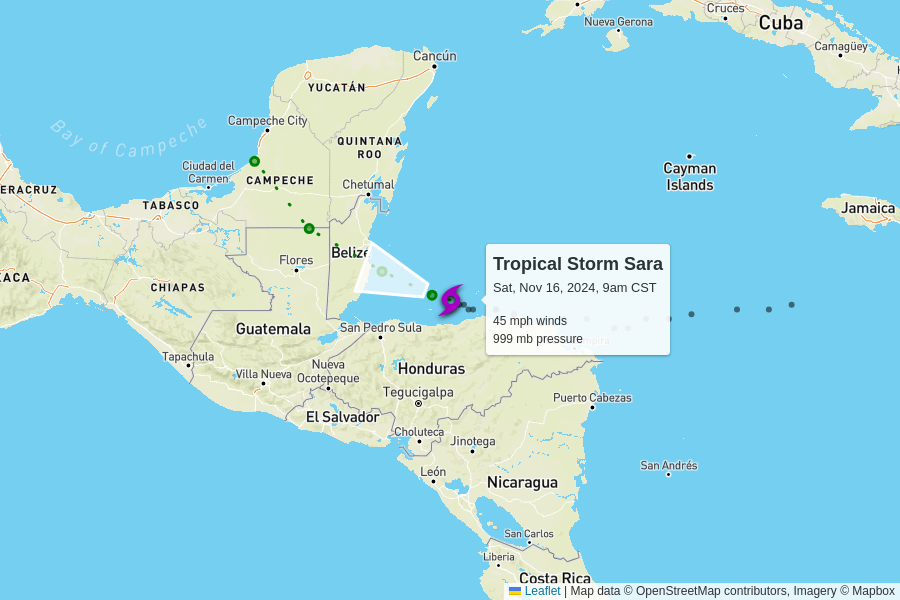
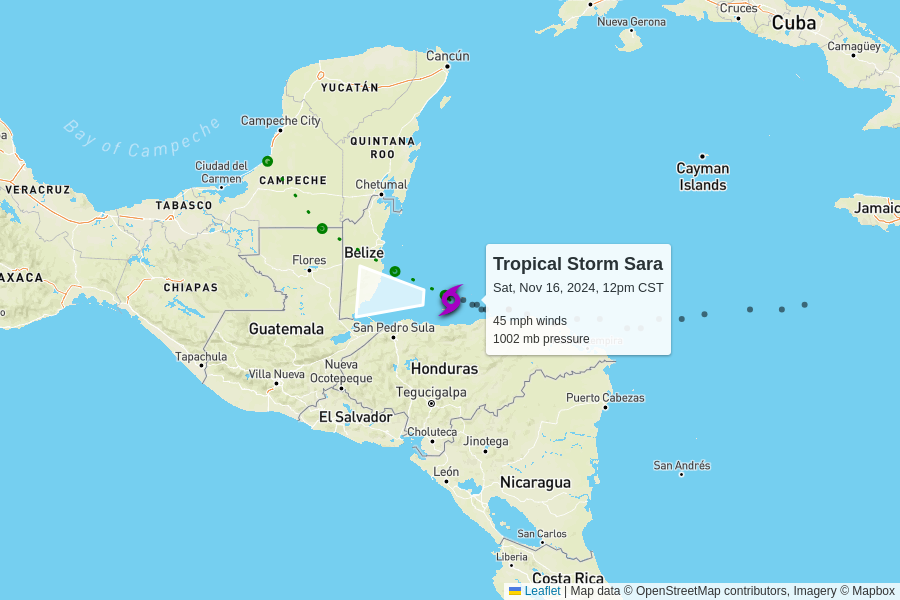
automatic update

diff --git a/docs/index.html b/docs/index.html
@@ -102,7 +102,7 @@
         <td colspan="6" class="storm category-0" >
           <h2>
             Tropical Storm Sara
-            <p class="updated">last updated <span data-time>2024-11-16T15:00:00.000Z</span></p>
+            <p class="updated">last updated <span data-time>2024-11-16T18:00:00.000Z</span></p>
           </h2>
         </td>
       </tr>
@@ -117,12 +117,12 @@
       </tr>
       <tr>
         <td class="spacer"></td>
-        <td>45 mph<br>-5 mph since last update</td>
-        <td>999 mb<br>+2 mb since last update</td>
+        <td>45 mph<br>0 mph since last update</td>
+        <td>1002 mb<br>+3 mb since last update</td>
         <td>
-          2 mph to the west-northwest
+          4 mph to the west
           <br/>
-          <span style="display: inline-block; font-size: 1.5em; transform: rotate(290deg);">↑</span>
+          <span style="display: inline-block; font-size: 1.5em; transform: rotate(275deg);">↑</span>
         </td>
         <td><a href="https://raw.githubusercontent.com/mgwalker/atlantic-hurricanes/main/data/csv/AL192024.csv">AL192024.csv</a></td>
         <td><a href="https://www.nhc.noaa.gov/archive/2024/SARA.shtml?">NHC advisories</a></td>
